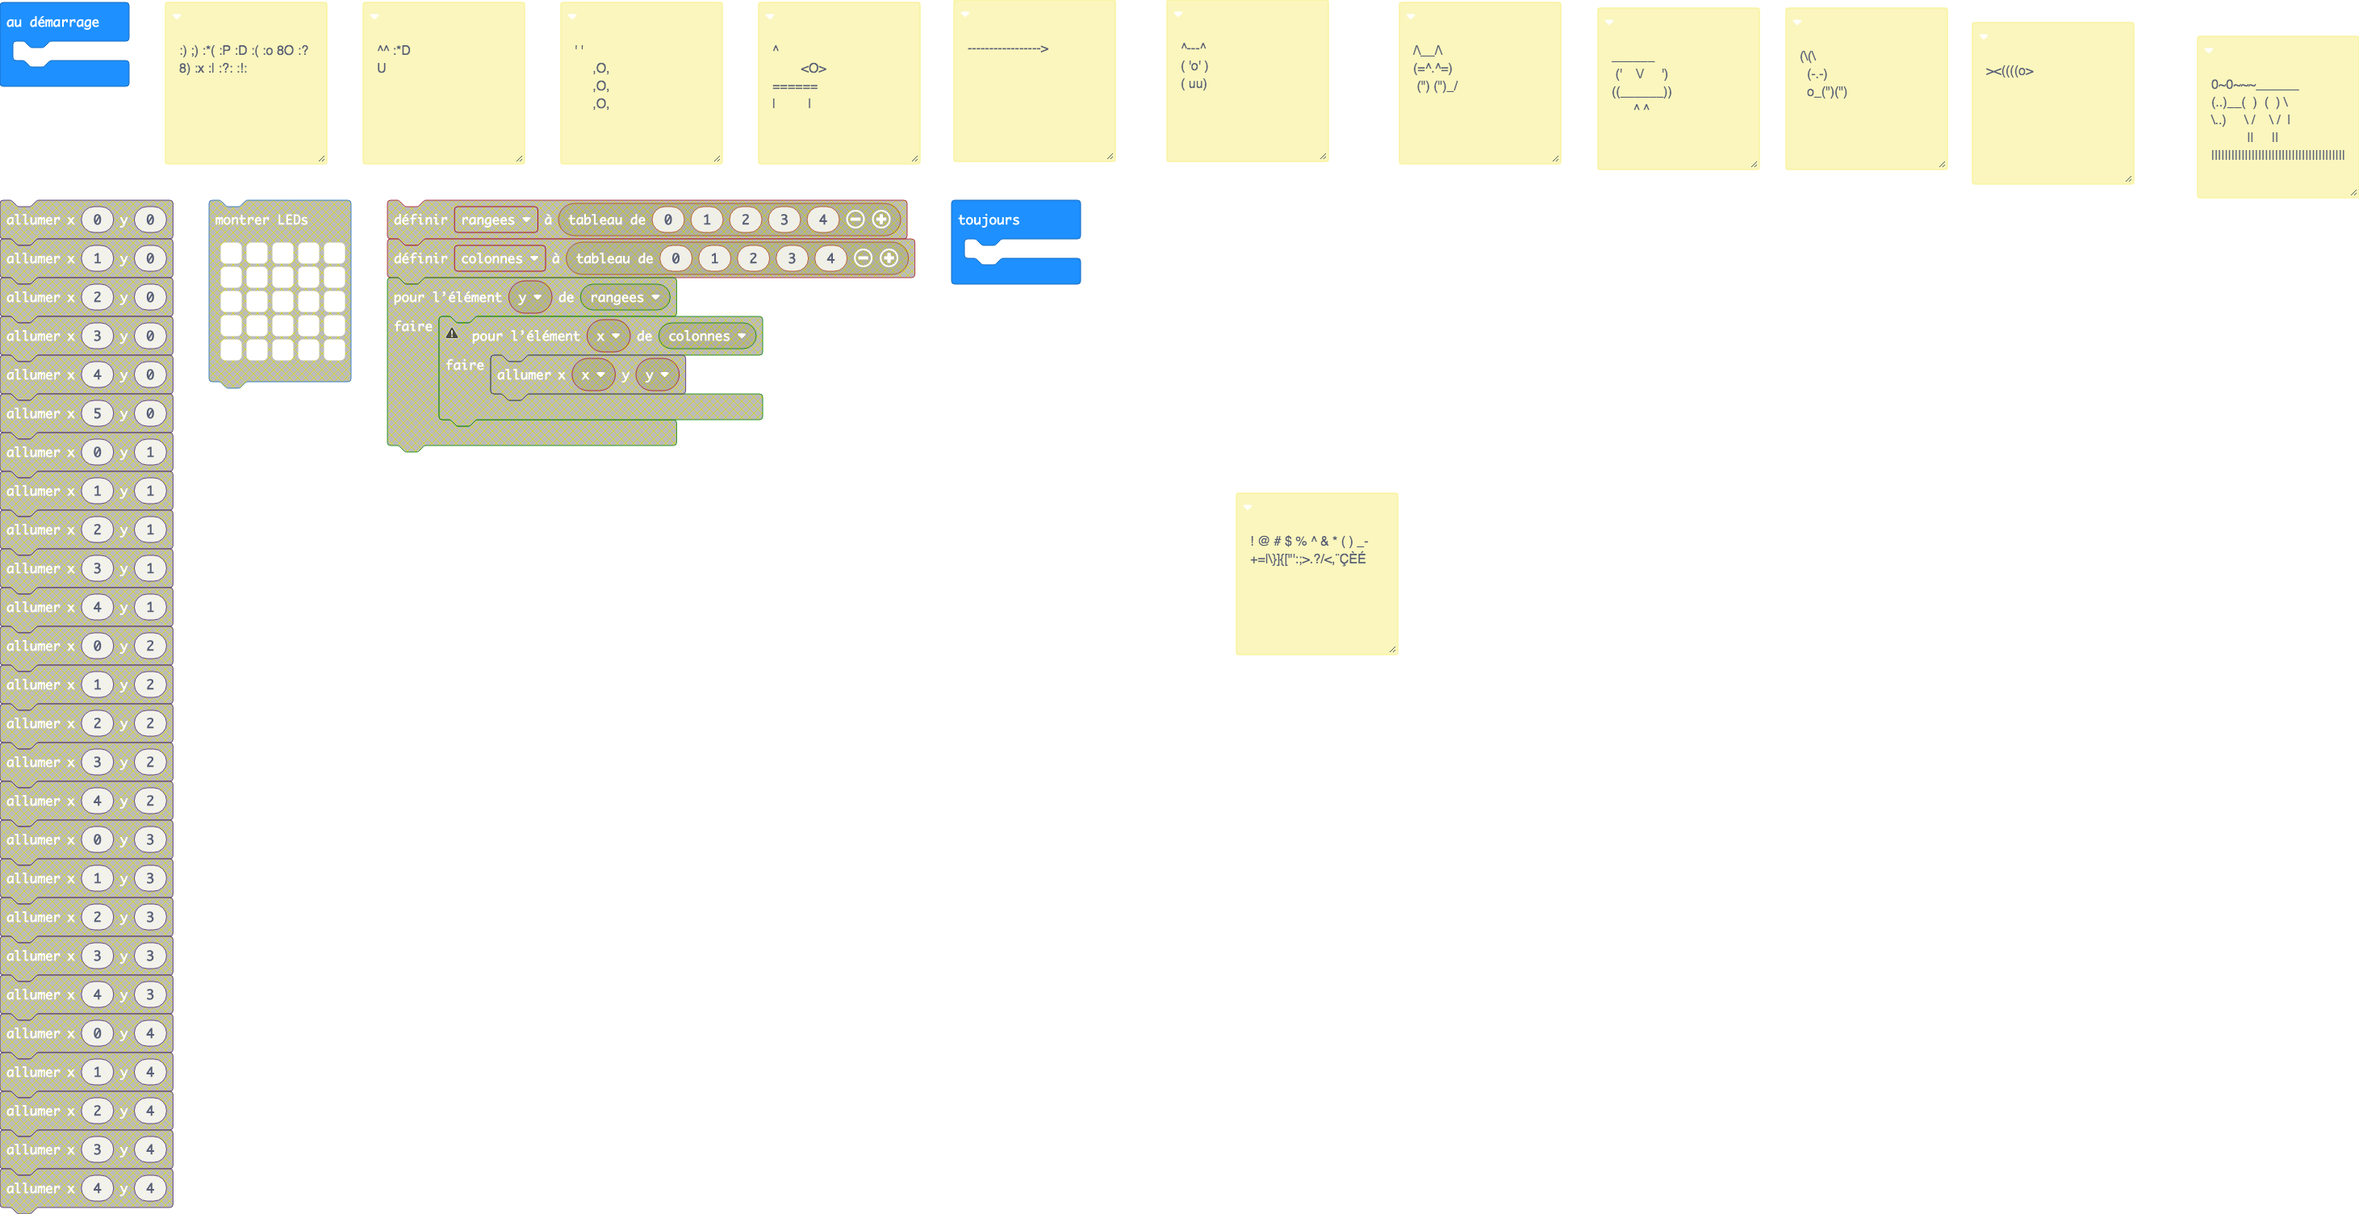
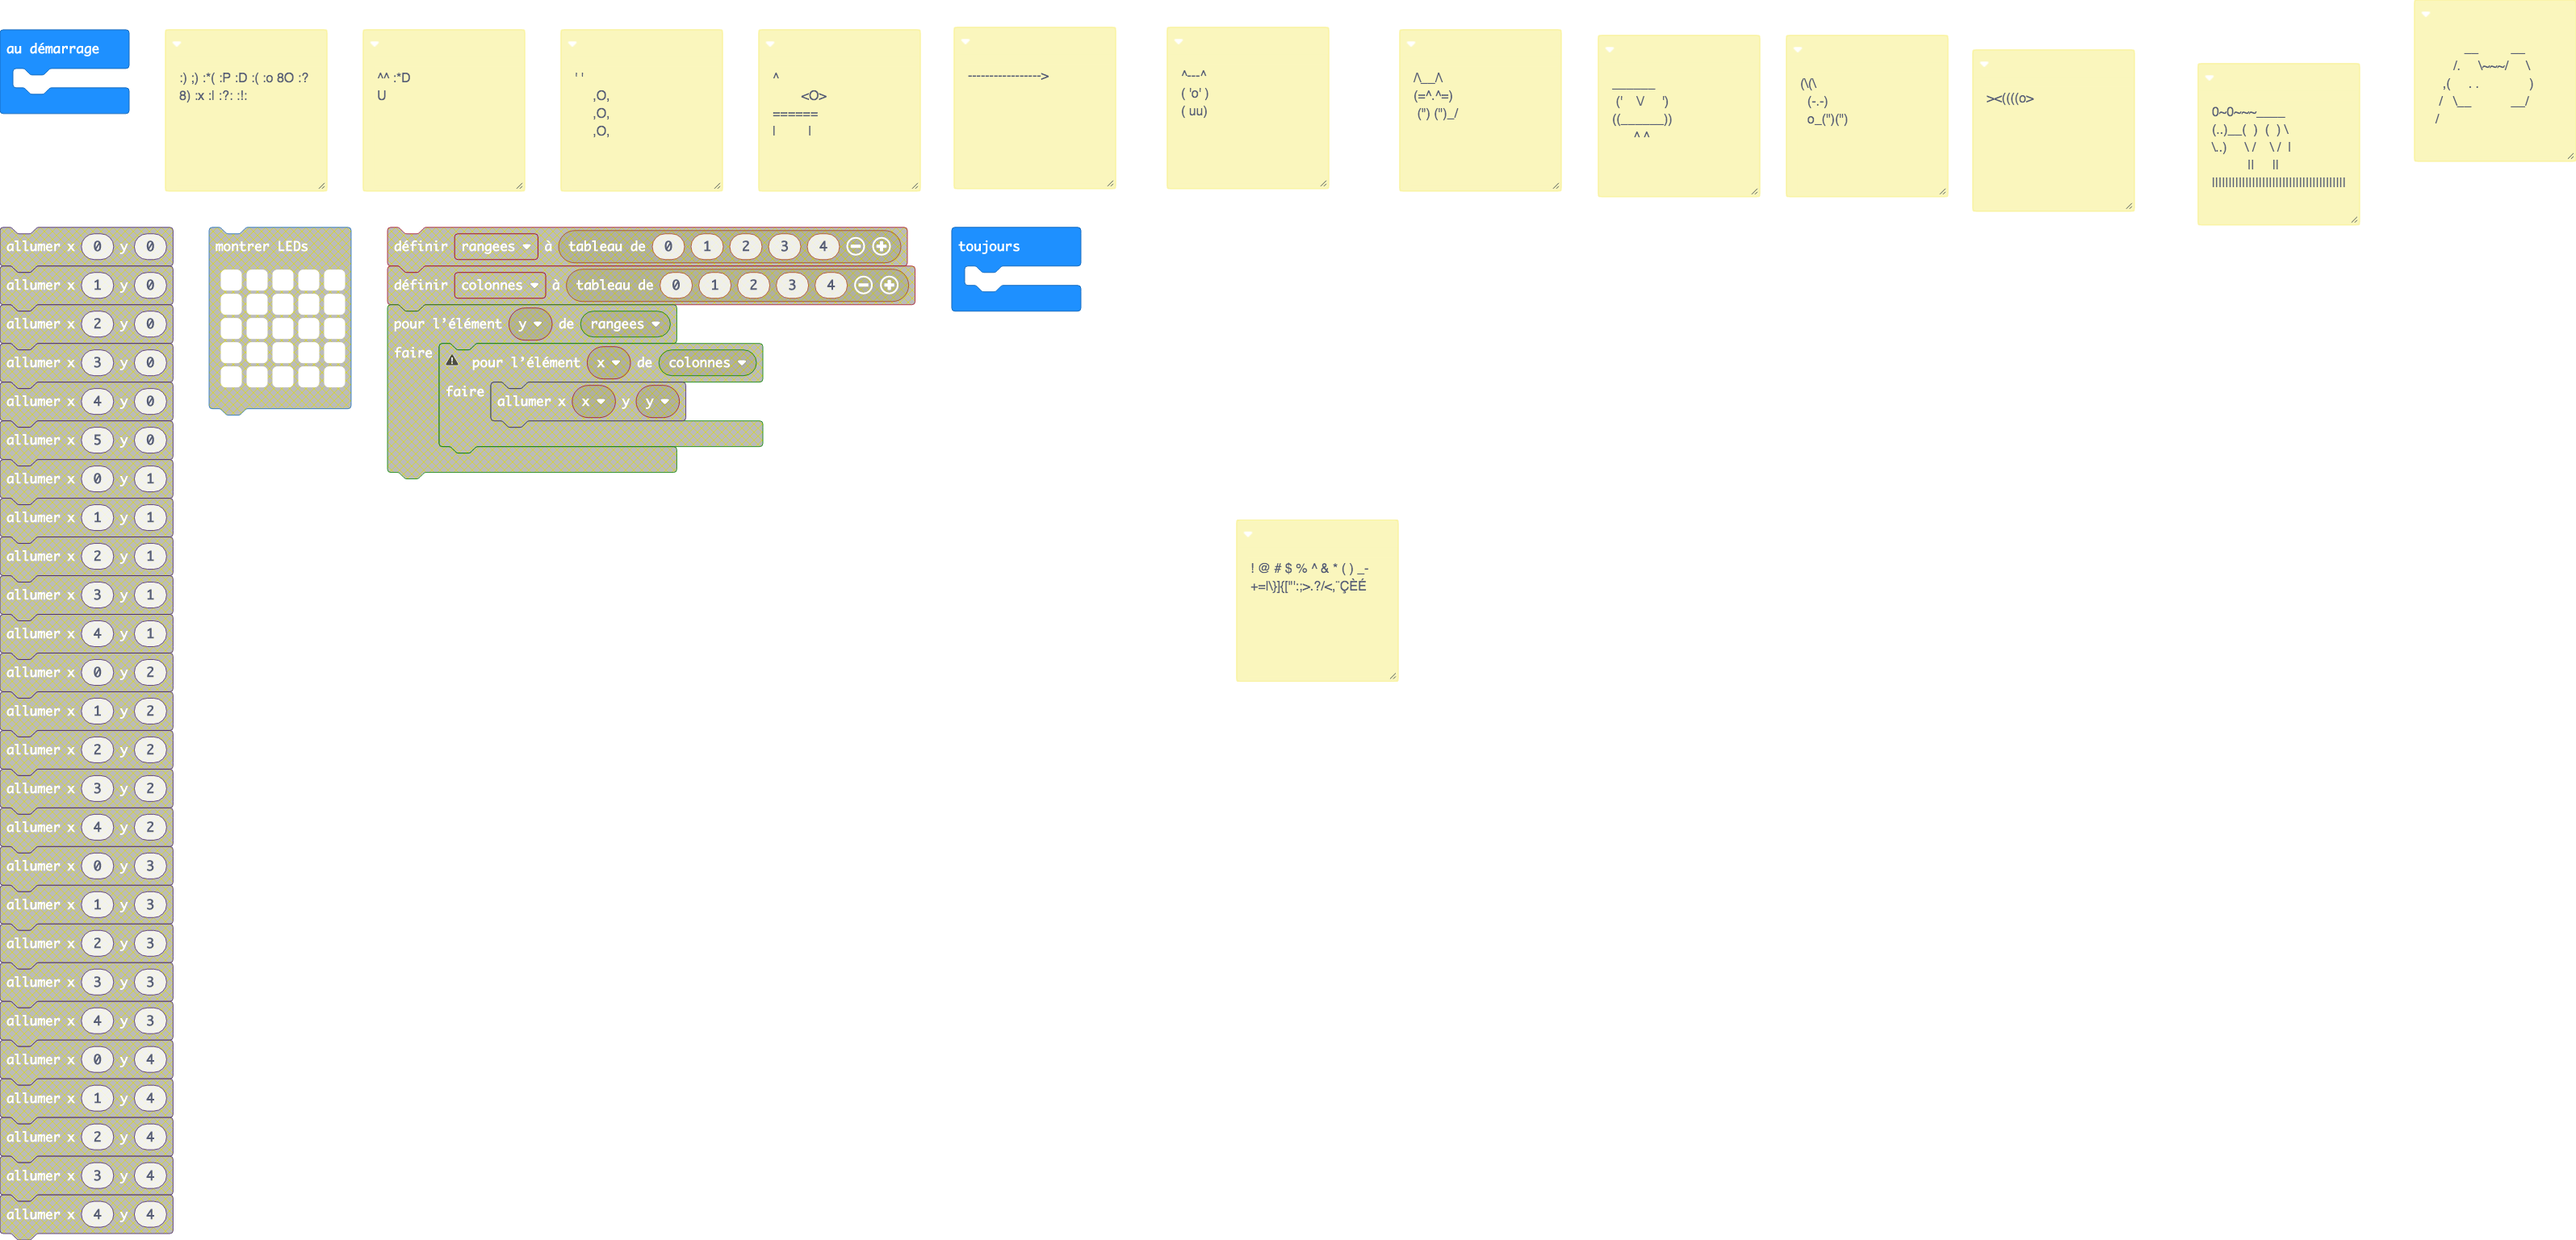
Mise à jour main.blocks, main.ts

Changed region(s): [[0.0, 0.0, 1.0, 1.0], [0.467, 0.4062, 0.5915, 0.5625]]

diff --git a/main.ts b/main.ts
@@ -51,6 +51,17 @@
  *       ^ ^
  */
 /**
+ * __         __
+ * 
+ *        /.     \~~~/     \
+ * 
+ *     ,(     . .              )
+ * 
+ *    /   \__           __/
+ * 
+ *   /
+ */
+/**
  * (\(\
  * 
  *   (-.-)
@@ -61,7 +72,7 @@
  * ><((((o>
  */
 /**
- * 0~0~~~______
+ * 0~0~~~____
  * 
  * (..)__(  )  (  ) \
  * 
